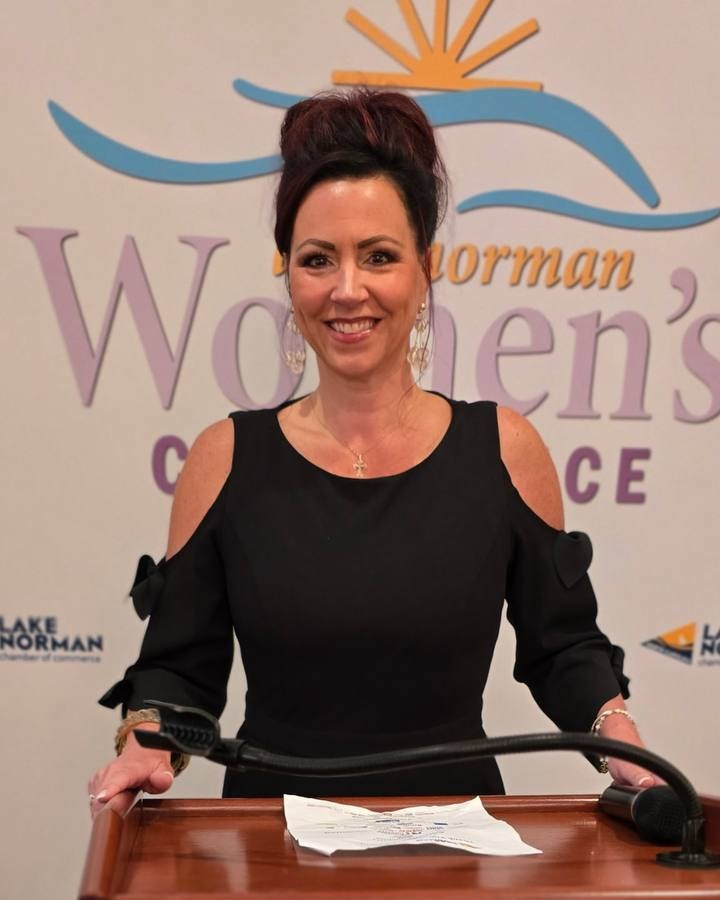
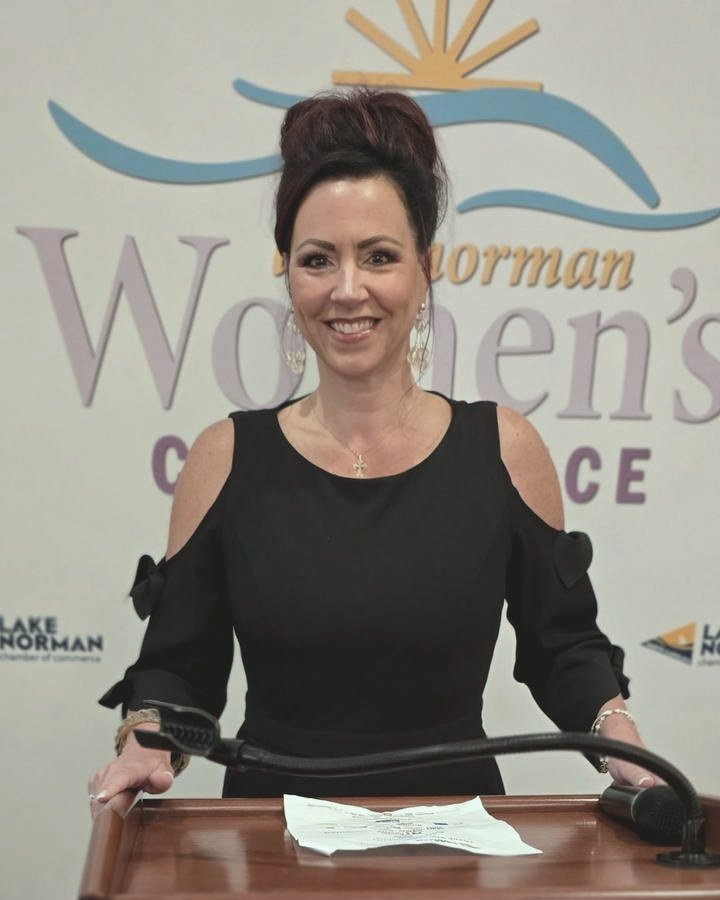
Copy: firm + drop 'people'; add I.N.H.C.; grade founder photo to match palette

diff --git a/index.html b/index.html
@@ -4,12 +4,12 @@
 <meta charset="UTF-8">
 <meta name="viewport" content="width=device-width, initial-scale=1">
 <title>MedWell Consulting</title>
-<meta name="description" content="MedWell Consulting, LLC. A boutique consulting partner built on decades of trusted relationships.">
+<meta name="description" content="MedWell Consulting, LLC. A boutique consulting firm built on decades of trusted relationships.">
 <link rel="icon" type="image/png" href="assets/favicon.png">
 
 <meta property="og:type" content="website">
 <meta property="og:title" content="MedWell Consulting">
-<meta property="og:description" content="A boutique consulting partner built on decades of trusted relationships.">
+<meta property="og:description" content="A boutique consulting firm built on decades of trusted relationships.">
 <meta property="og:image" content="https://crossfiber.github.io/medwell-consulting/assets/og-share.jpg">
 <meta property="og:image:width" content="1200">
 <meta property="og:image:height" content="630">
@@ -17,7 +17,7 @@
 <meta property="og:url" content="https://crossfiber.github.io/medwell-consulting/">
 <meta name="twitter:card" content="summary_large_image">
 <meta name="twitter:title" content="MedWell Consulting">
-<meta name="twitter:description" content="A boutique consulting partner built on decades of trusted relationships.">
+<meta name="twitter:description" content="A boutique consulting firm built on decades of trusted relationships.">
 <meta name="twitter:image" content="https://crossfiber.github.io/medwell-consulting/assets/og-share.jpg">
 
 <link rel="preconnect" href="https://fonts.googleapis.com">
@@ -300,7 +300,7 @@
   <div class="hero-mono" aria-hidden="true">MW</div>
   <div class="wrap hero-inner">
     <h1>Relationships that <em>matter</em>.</h1>
-    <p class="hero-lede">A boutique consulting partner built on decades of trusted relationships and a genuine passion for people's health and wellness.</p>
+    <p class="hero-lede">A boutique consulting firm built on decades of trusted relationships and a genuine passion for health and wellness.</p>
     <div class="hero-cta">
       <a href="#contact" class="btn btn-primary">Get in Touch <i class="fa-solid fa-arrow-right"></i></a>
       <a href="#approach" class="btn btn-ghost">Our Approach</a>
@@ -314,11 +314,11 @@
     <div class="approach-body">
       <h2>Partnership, <em>not</em> transactions.</h2>
       <p class="lead-line">Fifty years of combined experience in sales and consulting, shaped by one belief: relationships come first.</p>
-      <p>MedWell Consulting was born from a passion for people, health, and wellness. We focus on long-term partnerships grounded in trust and experience, not one-time transactions.</p>
+      <p>MedWell Consulting was born from a passion for health and wellness. We focus on long-term partnerships grounded in trust and experience, not one-time transactions.</p>
     </div>
     <div class="approach-photo">
       <img src="assets/casi-camacho.jpg" alt="Casi Camacho, founder of MedWell Consulting" loading="lazy">
-      <p class="about-sign"><span class="sign-name">Casi Camacho</span><span class="sign-role">Founder, MedWell Consulting</span></p>
+      <p class="about-sign"><span class="sign-name">Casi Camacho, I.N.H.C.</span><span class="sign-role">Founder, MedWell Consulting</span></p>
     </div>
   </div>
 </section>
@@ -365,7 +365,7 @@
   <div class="wrap">
     <div class="foot-top">
       <img src="assets/medwell-logo.png" alt="MedWell Consulting logo" class="foot-logo">
-      <p class="foot-tag">A passion for people, health, and wellness.</p>
+      <p class="foot-tag">A passion for health and wellness.</p>
       <a href="mailto:[email redacted]" class="foot-email">[email redacted]</a>
     </div>
     <div class="foot-divider"></div>